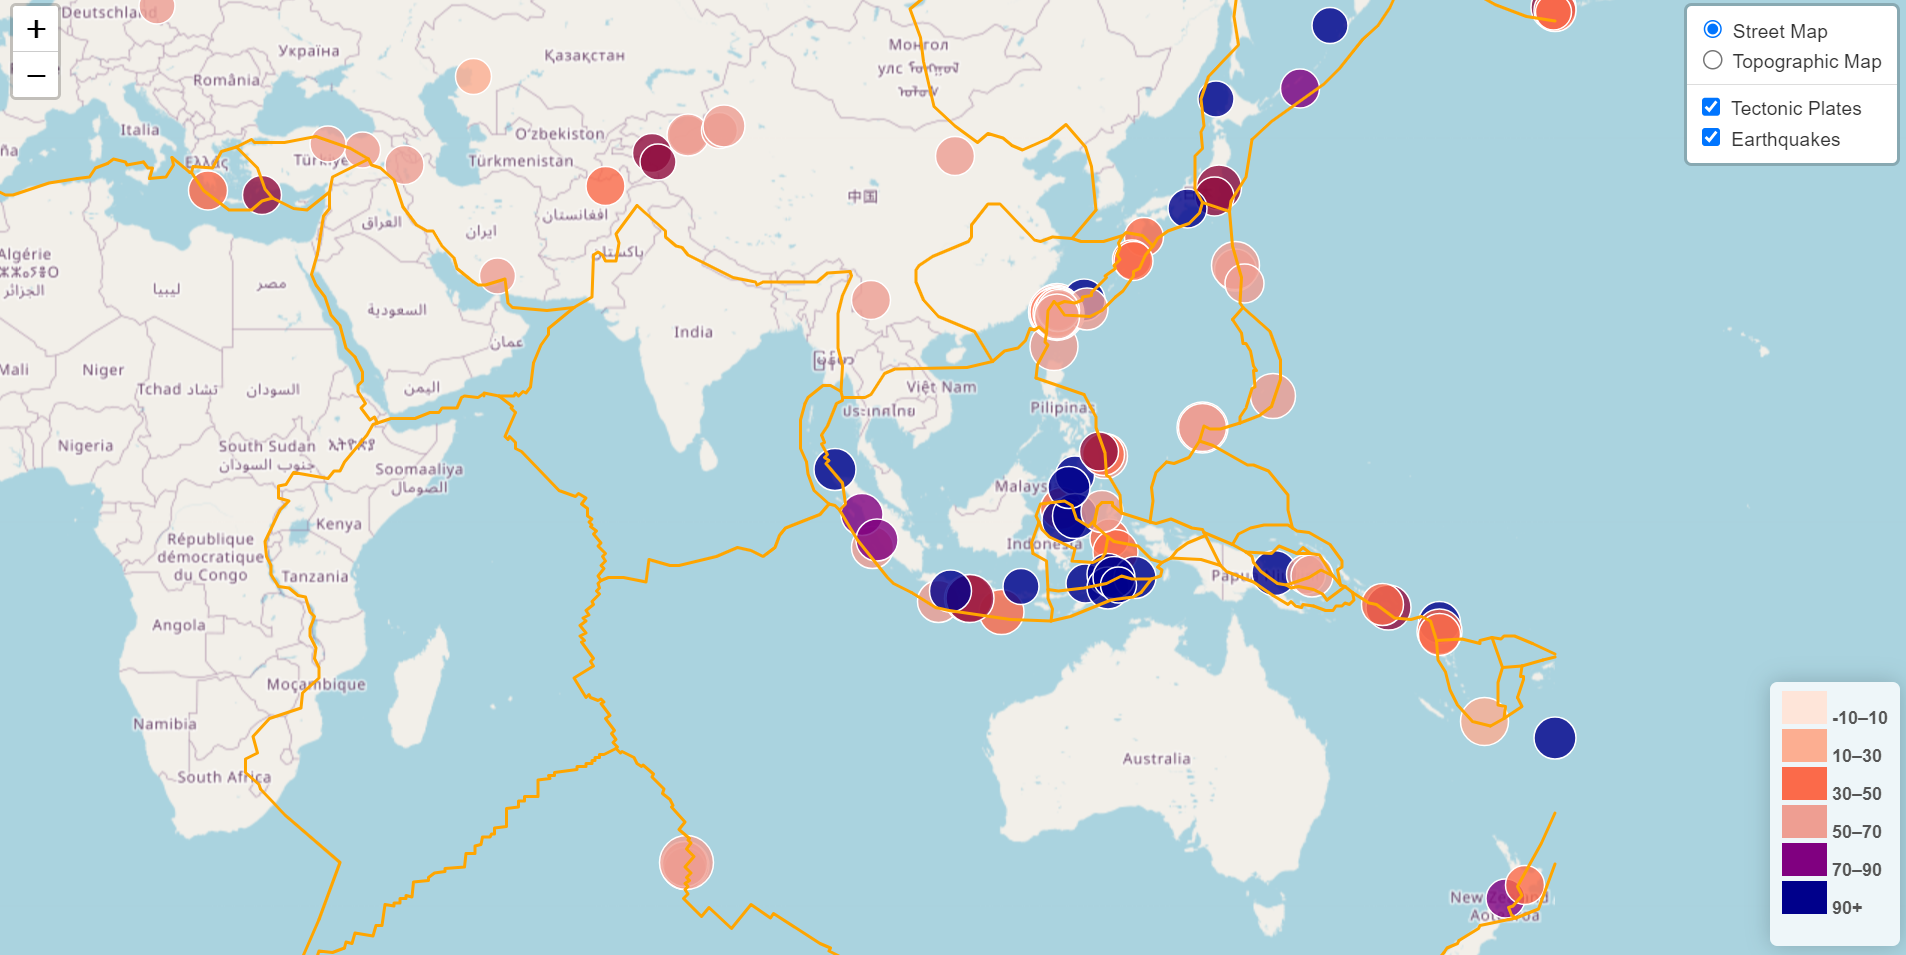
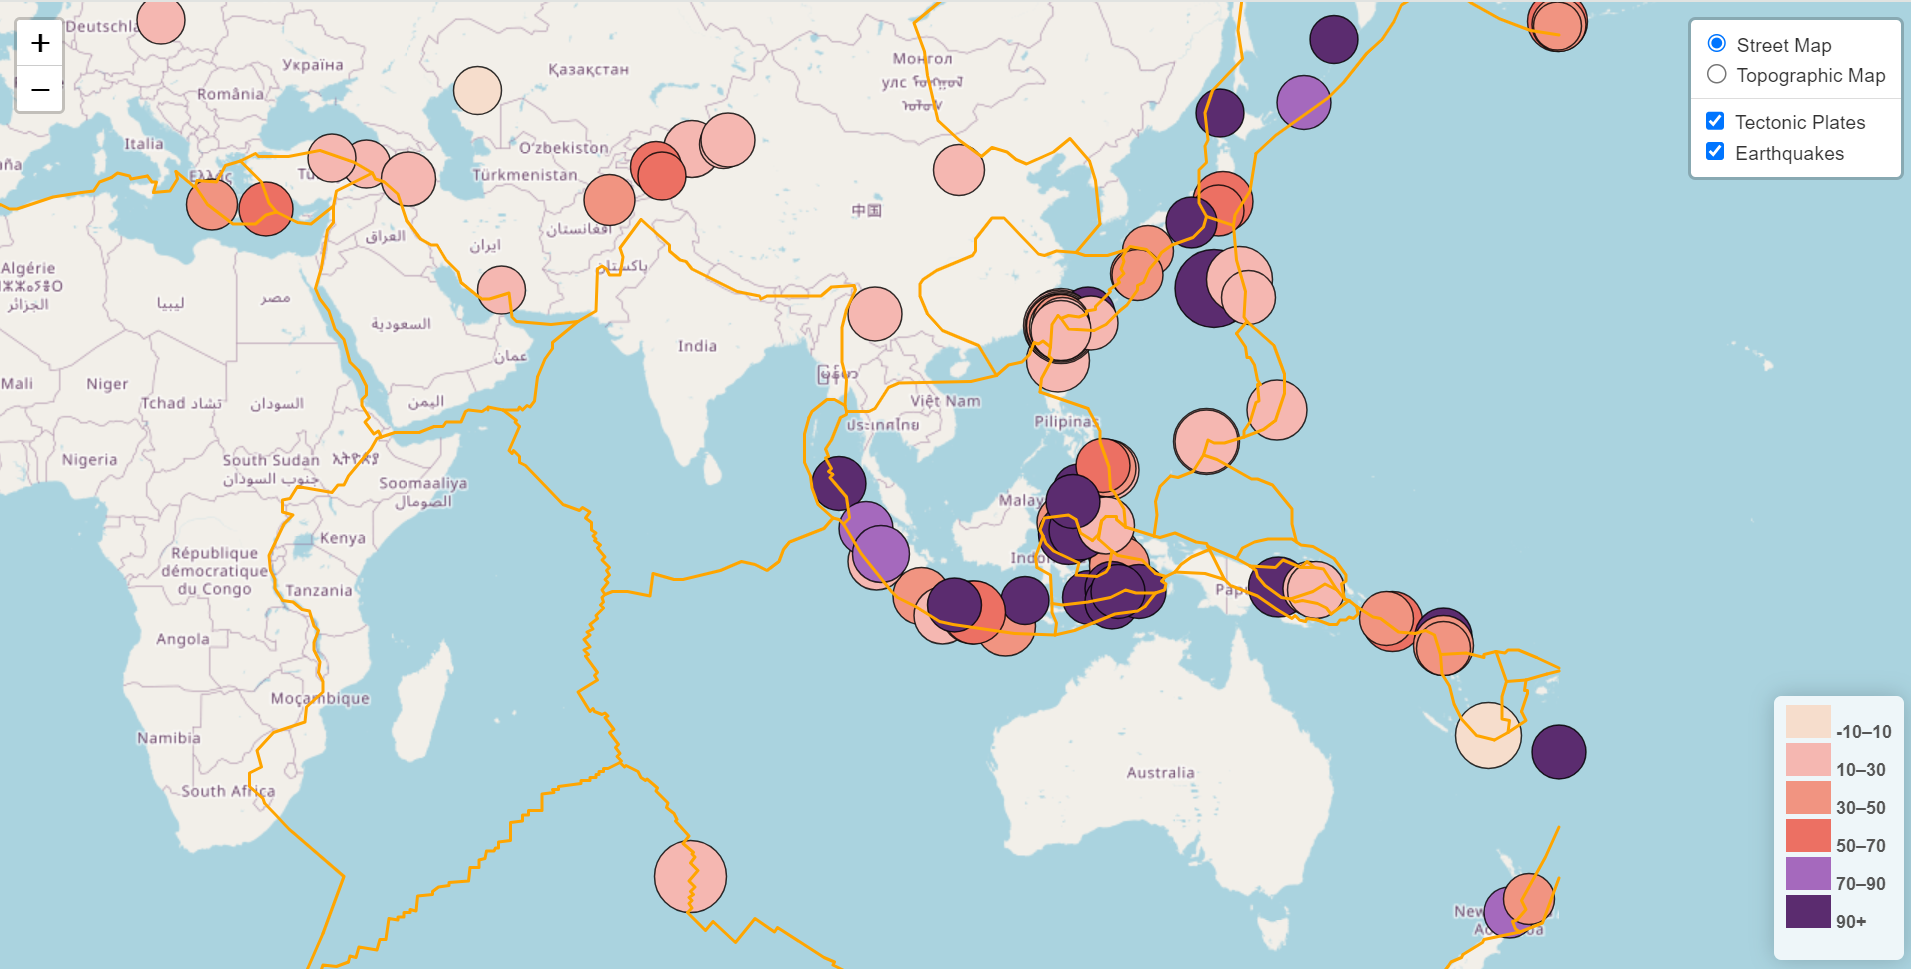
to be submitted

diff --git a/Leaflet-Part-1/static/js/logic.js b/Leaflet-Part-1/static/js/logic.js
@@ -1,5 +1,5 @@
 //Creating the map object
-let myMap = L.map("map").setView([4.11,109.69],2);
+let myMap = L.map("map").setView([4.11,109.69],3);
 
 //Adding the tile layer
 L.tileLayer('https://{s}.tile.openstreetmap.org/{z}/{x}/{y}.png', {
@@ -17,21 +17,21 @@ d3. json(link).then (data=>{
         pointToLayer: function (feature, latlng){
             //Determine color based on earthquake depth
             var color;
-            if (feature.geometry.coordinates[2]<10){color = "#fcae91"}
-            else if (feature.geometry.coordinates[2]<30){color = "#ee9e92"}
-            else if (feature.geometry.coordinates[2]<50){color = "#fb6a4a"}
-            else if (feature.geometry.coordinates[2]<70){color = "#900c3f"}
-            else if (feature.geometry.coordinates[2]<90){color = "#800080"}
-            else {color = "#00008B"};
+            if (feature.geometry.coordinates[2]<10){color = "#f6ddcc"}
+            else if (feature.geometry.coordinates[2]<30){color = "#f5b7b1"}
+            else if (feature.geometry.coordinates[2]<50){color = "#f19481"}
+            else if (feature.geometry.coordinates[2]<70){color = "#ec7063"}
+            else if (feature.geometry.coordinates[2]<90){color = "#a569bd"}
+            else {color = "#5b2c6f"};
 
             //Access longitude and latitude
             return L.circleMarker(latlng, {
-                radius: feature.properties.mag * 3,
+                radius: feature.properties.mag * 4,
                 fillColor:color,
-                color: "white",
+                color: "black",
                 weight: 1,
-                opacity: 1,
-                fillOpacity: 0.8,
+                opacity: 0.8,
+                fillOpacity: 3,
             });
         },
 
@@ -50,17 +50,17 @@ d3. json(link).then (data=>{
     var legend = L.control({position:"bottomright"});
     //Define the legend content and styling
     legend.onAdd = function() {
-        var div = L.DomUtil.create("div", "info legend");
-        var grades = [-10, 10, 30, 50, 70, 90];
-        var colors = ["#fee5d9", "#fcae91", "#fb6a4a", "#ee9e92", "#800080", "#00008B"];
-        var labels = [];
+        let div = L.DomUtil.create("div", "info legend");
+        let grades = [-10, 10, 30, 50, 70, 90];
+        let colors = ["#f6ddcc", "#f5b7b1", "#f19481", "#ec7063", "#a569bd", "#5b2c6f"];
+        let labels = [];
 
         //Loop through the depth ranges and add color labels
-        for (var i = 0; i < grades.length; i++) {
-            div.innerHTML += '<i style="background:' + colors[i] + '"></i> ' 
-            + grades[i] + (grades[i + 1] ? '&ndash;' + grades[i + 1] + '<br>' : '+');
-}
-
+        for (var i=0; i < grades.length; i++){
+            div.innerHTML += '<i style="background:' + colors[i] + '"></i> ' +
+                grades[i] + (grades[i + 1] ? '&ndash;' + grades[i + 1] + '<br>' : '+');
+    }
+        div.innerHTML += "<ul>" + labels.join("") + "</ul>";
         return div;
     };
     // Add the legend to the map

diff --git a/Leaflet-Part-2/static/js/logic.js b/Leaflet-Part-2/static/js/logic.js
@@ -22,21 +22,21 @@ function createFeatures(earthquakeData) {
     pointToLayer: function (feature, latlng){
       //Determine color based on earthquake depth
       var color;
-      if (feature.geometry.coordinates[2]<10){color = "#fcae91"}
-      else if (feature.geometry.coordinates[2]<30){color = "#ee9e92"}
-      else if (feature.geometry.coordinates[2]<50){color = "#fb6a4a"}
-      else if (feature.geometry.coordinates[2]<70){color = "#900c3f"}
-      else if (feature.geometry.coordinates[2]<90){color = "#800080"}
-      else {color = "#00008B"};
+      if (feature.geometry.coordinates[2]<10){color = "#f6ddcc"}
+      else if (feature.geometry.coordinates[2]<30){color = "#f5b7b1"}
+      else if (feature.geometry.coordinates[2]<50){color = "#f19481"}
+      else if (feature.geometry.coordinates[2]<70){color = "#ec7063"}
+      else if (feature.geometry.coordinates[2]<90){color = "#a569bd"}
+      else {color = "#5b2c6f"};
 
       //Access longitude and latitude
       return L.circleMarker(latlng, {
-          radius: feature.properties.mag * 3,
-          fillColor:color,
-          color: "white",
-          weight: 1,
-          opacity: 1,
-          fillOpacity: 0.8,
+        radius: feature.properties.mag * 4,
+        fillColor:color,
+        color: "black",
+        weight: 1,
+        opacity: 0.8,
+        fillOpacity: 3,
       });
   },
     onEachFeature: onEachFeature
@@ -91,7 +91,7 @@ let myMap = L.map("map", {
     center: [
         4.11,109.69
     ],
-    zoom: 5,
+    zoom: 3,
     layers: [street, earthquakes]
   });
 
@@ -108,7 +108,7 @@ let myMap = L.map("map", {
     legend.onAdd = function() {
         let div = L.DomUtil.create("div", "info legend");
         let grades = [-10, 10, 30, 50, 70, 90];
-        let colors = ["#fee5d9", "#fcae91", "#fb6a4a", "#ee9e92", "#800080", "#00008B"];
+        let colors = ["#f6ddcc", "#f5b7b1", "#f19481", "#ec7063", "#a569bd", "#5b2c6f"];
         let labels = [];
 
         //Loop through the depth ranges and add color labels

diff --git a/Leaflet-Part-1/static/css/style.css b/Leaflet-Part-1/static/css/style.css
@@ -25,7 +25,12 @@ b {
   box-shadow: 0 0 15px rgba(0,0,0,0.2);
   border-radius: 5px;
 }
-
+.legend ul {
+  list-style-type: none;
+  padding: 0;
+  margin: 0;
+  clear: both;
+}
 .legend i {
   display: inline-block;
   width: 30px;

diff --git a/README.md b/README.md
@@ -1,1 +1,47 @@
 # leaflet-challenge
+
+## Overview
+
+This activity is broken into two parts: Leaflet-Part-1 provides a simple map to locate all the earthquakes from the past 7 days while Leaflet-Part-2 provides extra information layered upon the map generated in Part 1.  
+
+## Using the Project
+
+-   Leaflet-Part-1 folder contains the following files:
+    -   The file style.css provides styling for Part 1.
+    -   The file logic.js provides the coding for the visualisation including:
+      **loading tilelayer, 
+      ** conneting to geojson API using D3, 
+      ** setting markers with size corresponing to earthquake magnitude and color corresponding to earthquake depth
+      ** a legend showing the depth and their corresponding colour.
+    -   The file index.html: Open the index.html for the visualisation, including:
+      ** data points scale with magnitude level
+      ** data points colours change with depth level
+      ** each point has a tooltip including the magnitude, the location, and depth, among other info.
+
+-   Leaflet-Part-2 folder contains: 
+    -   The file style.css provides styling for Part 2, which is essentially the same as the styling in Part 1.
+    -   The file logic.js provides the coding for the visualisation (different coding format for learning purposes) including:
+      **loading tilelayer, 
+      ** conneting to geojson API using D3, 
+      ** setting markers with size corresponing to earthquake magnitude and color corresponding to earthquake depth
+      ** a legend showing the depth and their corresponding colour.
+      In addition to the above, the logic.js also provides the coding for the basemap and overlay map, specifically, topographic map in the basemap and the tectonic plates in the overlay map.
+    -   The file index.html: Open the index.html for the visualisation, including:
+      ** the previous map accessible from Part-1
+      ** the extra layers as mentioned above that can be turned on and off independently.
+
+## Data ethics considered
+
+During the process of working on the challenge,  efforts are made to adhere to data ethics, including the rules for privacy and ethical coding when extracting data, exploring codes for visiualisations. All the resources used are acknowledged and referenced below.
+
+## References/acknowledgements
+
+- University of Adelaide. (2023). Module 15 contents in particular.
+https://bootcampspot.instructure.com/courses/4781/pages/15-advanced-interactive-visualisations-using-javascript?module_item_id=1163132
+- HTML color codes. Retrieved from (https://htmlcolorcodes.com/)
+- The help from Xpert Learning Assistant and the tutor Saad Khan as well as from the teaching staff are also acknowledged herein. 
+
+**Data**
+- Data for this dataset was generated by edX Boot Camps LLC, and is intended for educational purposes only.
+- Data for Earthquakes, retrieved from USGS (https://earthquake.usgs.gov/earthquakes/feed/v1.0/geojson.php)
+- Data for tectonic plates, retrived from github (https://github.com/fraxen/tectonicplates)
